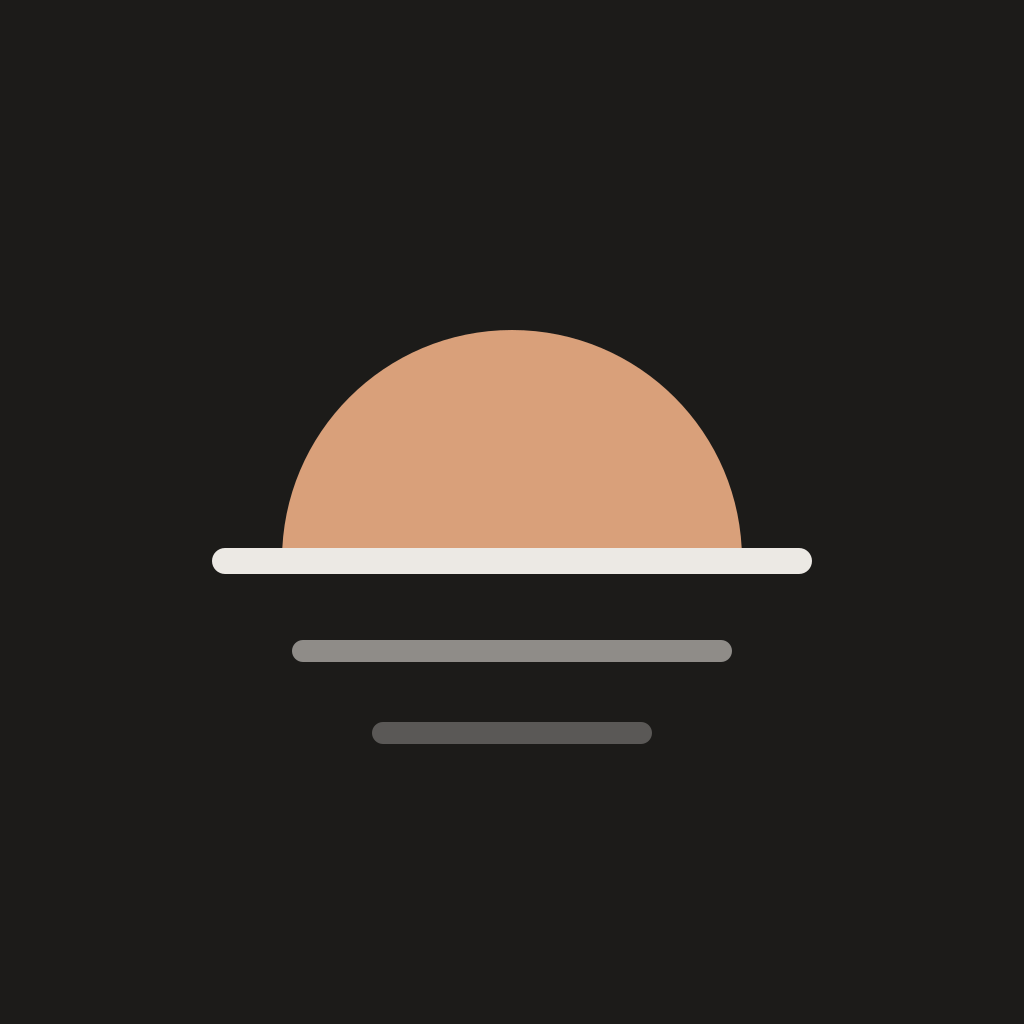
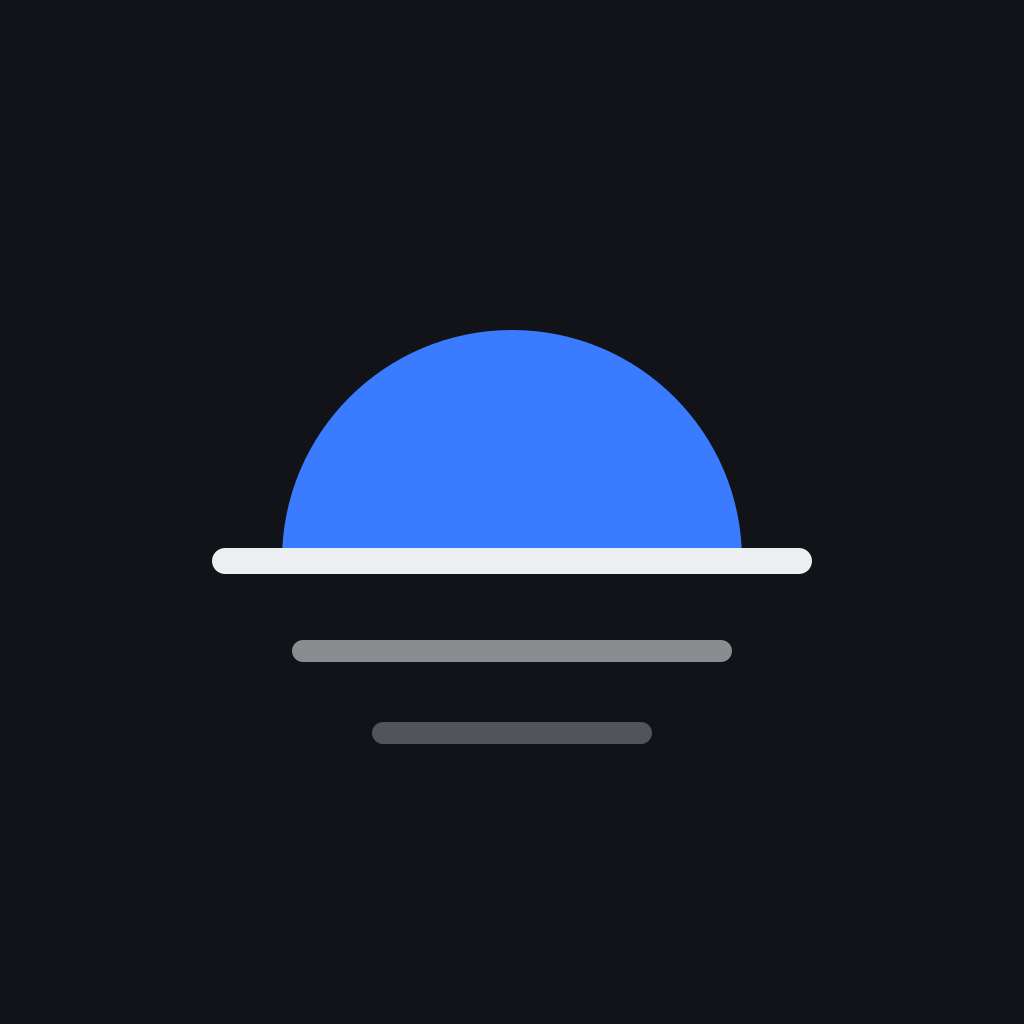
Switch the palette to graphite and electric blue
Near-black ink on white, cool grey lines and muted text, one electric
blue for charts, links and section headings; green and red stay
reserved for good and bad, always beside a word. Same tokens on the
web, the phone theme, the emailed brief, the QR code, the splash
background, and a regenerated app icon.

Sparkline series now drop a period still in progress, matching the
detector, so a month-to-date point no longer draws as the end marker.

Claude-Session: https://claude.ai/code/session_01Lrqf2vdKZ4yET6zCUYDpU2

Changed region(s): [[0.25, 0.3125, 0.75, 0.5625]]

diff --git a/chiefstaff/src/app/globals.css b/chiefstaff/src/app/globals.css
@@ -1,38 +1,38 @@
 :root {
-  --bg: #f6f5f2;
+  --bg: #fafafb;
   --panel: #ffffff;
-  --panel-2: #fbfaf8;
-  --line: #e6e3dd;
-  --ink: #1c1b19;
-  --muted: #6f6b66;
-  --faint: #a19c95;
-  --accent: #8a4b2a;
-  --urgent: #a8321f;
-  --ok: #2f6b45;
-  --chart: #b25a2b;
-  --band: #e9e6e0;
-  --good: #2f7d4f;
-  --bad: #c0392b;
+  --panel-2: #f4f5f7;
+  --line: #e4e6ea;
+  --ink: #111318;
+  --muted: #5f6570;
+  --faint: #9aa0aa;
+  --accent: #1a56f0;
+  --urgent: #d92d20;
+  --ok: #12803c;
+  --chart: #1f5eff;
+  --band: #eceef2;
+  --good: #128a45;
+  --bad: #dc2626;
   --radius: 12px;
-  --shadow: 0 1px 2px rgba(20, 18, 14, 0.04), 0 8px 24px -12px rgba(20, 18, 14, 0.12);
+  --shadow: 0 1px 2px rgba(16, 20, 30, 0.04), 0 8px 24px -12px rgba(16, 20, 30, 0.12);
 }
 
 @media (prefers-color-scheme: dark) {
   :root {
-    --bg: #131217;
-    --panel: #1c1b21;
-    --panel-2: #201f26;
-    --line: #2f2d36;
-    --ink: #ece9e4;
-    --muted: #9b958d;
-    --faint: #6d685f;
-    --accent: #d9a07a;
-    --urgent: #e0705c;
-    --ok: #7cb894;
-    --chart: #e0a070;
-    --band: #2a2830;
-    --good: #6fc48e;
-    --bad: #ef7b66;
+    --bg: #0f1115;
+    --panel: #171a20;
+    --panel-2: #1c1f26;
+    --line: #2a2e37;
+    --ink: #eceef2;
+    --muted: #9aa1ad;
+    --faint: #666d7a;
+    --accent: #6b9bff;
+    --urgent: #ff7a6b;
+    --ok: #5fd38a;
+    --chart: #5b8dff;
+    --band: #262a33;
+    --good: #34c26a;
+    --bad: #f26b5b;
     --shadow: 0 1px 2px rgba(0, 0, 0, 0.3), 0 10px 30px -14px rgba(0, 0, 0, 0.6);
   }
 }

diff --git a/chiefstaff/src/core/deliver.ts b/chiefstaff/src/core/deliver.ts
@@ -23,18 +23,18 @@ function spansToHtml(spans: Span[]): string {
 // Mail clients strip <style> unpredictably, so everything is inlined. Kept
 // deliberately plain: this is read on a phone, one-handed, before coffee.
 const STYLES = {
-  body: "margin:0;padding:24px 16px;background:#fbfbfa;font:16px/1.55 -apple-system,BlinkMacSystemFont,'Segoe UI',Roboto,sans-serif;color:#1c1b19;",
+  body: "margin:0;padding:24px 16px;background:#fafafb;font:16px/1.55 -apple-system,BlinkMacSystemFont,'Segoe UI',Roboto,sans-serif;color:#111318;",
   wrap: "max-width:520px;margin:0 auto;",
   greeting: "font-size:20px;font-weight:600;letter-spacing:-0.02em;margin:0 0 4px;",
-  date: "color:#6f6b66;font-size:13px;margin:0 0 26px;",
+  date: "color:#5f6570;font-size:13px;margin:0 0 26px;",
   heading:
-    "font-size:13px;font-weight:600;text-transform:uppercase;letter-spacing:0.07em;color:#8a4b2a;margin:26px 0 10px;",
+    "font-size:13px;font-weight:600;text-transform:uppercase;letter-spacing:0.07em;color:#1a56f0;margin:26px 0 10px;",
   paragraph: "margin:0 0 12px;",
   list: "margin:0 0 12px;padding-left:20px;",
   item: "margin:0 0 7px;",
   footer:
-    "margin-top:34px;padding-top:16px;border-top:1px solid #e6e4e0;color:#6f6b66;font-size:13px;",
-  link: "color:#8a4b2a;",
+    "margin-top:34px;padding-top:16px;border-top:1px solid #e4e6ea;color:#5f6570;font-size:13px;",
+  link: "color:#1a56f0;",
 };
 
 export function renderBriefEmail(user: User, brief: Brief, appUrl: string): Envelope {

diff --git a/chiefstaff/mobile/src/theme.ts b/chiefstaff/mobile/src/theme.ts
@@ -2,35 +2,35 @@ import { useColorScheme } from "react-native";
 
 /** Same palette as the web, so the brief looks like one product on both. */
 const light = {
-  bg: "#fbfbfa",
+  bg: "#fafafb",
   panel: "#ffffff",
-  line: "#e6e4e0",
-  ink: "#1c1b19",
-  muted: "#6f6b66",
-  accent: "#8a4b2a",
-  urgent: "#a8321f",
-  ok: "#2f6b45",
-  faint: "#a19c95",
-  chart: "#b25a2b",
-  band: "#e9e6e0",
-  good: "#2f7d4f",
-  bad: "#c0392b",
+  line: "#e4e6ea",
+  ink: "#111318",
+  muted: "#5f6570",
+  accent: "#1a56f0",
+  urgent: "#d92d20",
+  ok: "#12803c",
+  faint: "#9aa0aa",
+  chart: "#1f5eff",
+  band: "#eceef2",
+  good: "#128a45",
+  bad: "#dc2626",
 };
 
 const dark: typeof light = {
-  bg: "#16151a",
-  panel: "#1e1d23",
-  line: "#302e37",
-  ink: "#ece9e4",
-  muted: "#9b958d",
-  accent: "#d9a07a",
-  urgent: "#e0705c",
-  ok: "#7cb894",
-  faint: "#6d685f",
-  chart: "#e0a070",
-  band: "#2a2830",
-  good: "#6fc48e",
-  bad: "#ef7b66",
+  bg: "#0f1115",
+  panel: "#171a20",
+  line: "#2a2e37",
+  ink: "#eceef2",
+  muted: "#9aa1ad",
+  accent: "#6b9bff",
+  urgent: "#ff7a6b",
+  ok: "#5fd38a",
+  faint: "#666d7a",
+  chart: "#5b8dff",
+  band: "#262a33",
+  good: "#34c26a",
+  bad: "#f26b5b",
 };
 
 export type Theme = typeof light;

diff --git a/chiefstaff/src/app/settings/page.tsx b/chiefstaff/src/app/settings/page.tsx
@@ -87,7 +87,7 @@ export default async function SettingsPage() {
                 // Generated by us from our own values; nothing user-supplied is in it.
                 __html: await QRCode.toString(
                   `chiefstaff://link?server=${encodeURIComponent(serverUrl)}&code=${liveCode.code}`,
-                  { type: "svg", margin: 0, color: { dark: "#1c1b19", light: "#ffffff" } },
+                  { type: "svg", margin: 0, color: { dark: "#111318", light: "#ffffff" } },
                 ),
               }}
             />

diff --git a/chiefstaff/src/core/metrics.ts b/chiefstaff/src/core/metrics.ts
@@ -266,7 +266,7 @@ export async function metricSeries(metricId: string, limit = WINDOW): Promise<Se
     include: { points: { orderBy: { periodStart: "desc" }, take: limit } },
   });
   if (!metric || metric.points.length === 0) return null;
-  return buildSeries([...metric.points].reverse(), metric);
+  return buildSeries(completePeriods([...metric.points].reverse()), metric);
 }
 
 /** A series from points already in hand, oldest first. */
